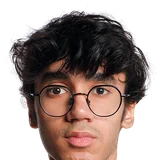
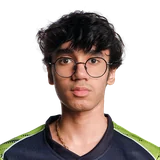
Predict results: square headshots instead of circle crops
Claude-Session: https://claude.ai/code/session_01BzJY31iHji2UxXymYXT3SW

diff --git a/core/crowdpage.py b/core/crowdpage.py
@@ -50,7 +50,7 @@ PAGE = r"""<!doctype html><html lang="en"><head><meta charset="utf-8">
 body{background:radial-gradient(800px 380px at 80% -15%,rgba(124,92,255,.14),transparent 60%),var(--bg);min-height:100vh}
 body:before{content:"";position:fixed;inset:0;pointer-events:none;z-index:50;background:repeating-linear-gradient(0deg,rgba(255,255,255,.012) 0 1px,transparent 1px 3px)}
 a{color:var(--cyan);text-decoration:none}.mono{font-family:"Share Tech Mono",monospace}
-.bar{position:sticky;top:0;z-index:20;background:rgba(11,11,18,.9);backdrop-filter:blur(10px);border-bottom:1px solid var(--line)}
+.bar{position:sticky;top:0;z-index:20;background:rgba(11,11,18,.9);backdrop-filter:blur(10px)}
 .bar .in{max-width:1180px;margin:0 auto;padding:10px 16px;display:flex;align-items:center;gap:10px}
 .brand{display:block;font:12px "Share Tech Mono",monospace;color:var(--lime);letter-spacing:.04em}
 h1{margin:2px 0 0;font-size:19px;text-transform:uppercase;letter-spacing:.02em;line-height:1.1}h1 span{color:var(--muted);font-weight:600}
@@ -96,14 +96,15 @@ h1{margin:2px 0 0;font-size:19px;text-transform:uppercase;letter-spacing:.02em;l
 .sleg{display:grid;grid-template-columns:repeat(2,1fr);gap:6px 14px;margin-top:12px}.sleg div{display:flex;align-items:center;gap:8px;font-size:14px;font-weight:600}
 .sleg i{width:10px;height:10px;flex:none}.sleg span:not(.av){margin-left:auto;font:14px "Share Tech Mono",monospace}
 /* treemap */
-.tm{position:relative;height:260px}.tm div{position:absolute;border:2px solid var(--card);padding:8px;overflow:hidden;display:flex;flex-direction:column;justify-content:flex-end}
+.tm{position:relative;height:260px}@media(max-width:640px){.tm{height:330px}}@media(min-width:641px){.tm .tight{padding-right:30px}.tm .tight b{font-size:12px}}.tm div{position:absolute;border:2px solid var(--card);padding:8px;overflow:hidden;display:flex;flex-direction:column;justify-content:flex-end}
 .tm b{font-size:14px;line-height:1.1;white-space:nowrap;overflow:hidden;text-overflow:ellipsis}.tm span{font:20px "Share Tech Mono",monospace}
 /* gauge */
 .gg{display:flex;gap:16px;align-items:center;flex-wrap:wrap}.gg svg{width:220px;flex:none}
 .rk{flex:1;min-width:170px}.rk div{display:flex;align-items:center;gap:10px;padding:5px 0;border-bottom:1px dashed var(--line);font-weight:600}.rk div:last-child{border:0}
 .rk em{font:normal 13px "Share Tech Mono",monospace;color:var(--muted);width:22px;display:inline-block;flex:none}.rk span:not(.av){margin-left:auto;font:14px "Share Tech Mono",monospace}
 /* players */
-.av{width:24px;height:24px;border-radius:50%;object-fit:cover;object-position:top;background:var(--card2);border:1px solid var(--line);flex:none;display:inline-grid;place-items:center;font:700 9px "Chakra Petch",sans-serif;color:var(--muted)}
+.av{width:38px;height:38px;border-radius:4px;object-fit:cover;background:linear-gradient(180deg,#22222f,#15151e);flex:none;display:inline-grid;place-items:center;font:700 11px "Chakra Petch",sans-serif;color:var(--muted)}
+span.av{border:1px solid var(--line)}
 .c.ph{overflow:hidden}.cut{position:absolute;right:-6px;bottom:0;height:88%;max-height:330px;width:auto;pointer-events:none;
  -webkit-mask-image:linear-gradient(to top,transparent 0,#000 34%);mask-image:linear-gradient(to top,transparent 0,#000 34%);filter:saturate(.95) contrast(1.03)}
 .c.ph>*:not(.cut){position:relative;z-index:1}
@@ -114,13 +115,13 @@ h1{margin:2px 0 0;font-size:19px;text-transform:uppercase;letter-spacing:.02em;l
 .elimP .cut{position:relative;right:auto;bottom:auto;height:170px;margin-right:-8px}
 .tm .tc{position:absolute;right:0;bottom:0;height:92%;width:auto;-webkit-mask-image:linear-gradient(to top,transparent 0,#000 30%);mask-image:linear-gradient(to top,transparent 0,#000 30%);pointer-events:none}
 .tav{width:30px;height:30px;border-color:rgba(0,0,0,.25)}
-.pills span{display:inline-flex;align-items:center;gap:6px;padding:3px 10px 3px 3px}
+.pills span{display:inline-flex;gap:8px;padding:4px 10px 4px 4px}.pills span em{align-self:center}.pills span{align-items:center}.pills .av{width:30px;height:30px}
 /* leader strip on player cards */
 .lead{position:relative;height:150px;margin:-4px 0 12px;border-bottom:1px solid var(--line);overflow:hidden}
 .lead .lc{position:absolute;right:-10px;bottom:0;height:150px;max-height:none;-webkit-mask-image:linear-gradient(to top,transparent 0,#000 30%);mask-image:linear-gradient(to top,transparent 0,#000 30%)}
 .lead .ln{position:relative;font:700 52px/1 "Chakra Petch",sans-serif;margin-top:18px;text-shadow:0 0 20px rgba(182,242,58,.3)}
 .lead .lw{position:relative;font-size:20px;font-weight:700;text-transform:uppercase;margin-top:4px}.lead small{position:relative;font:11px "Share Tech Mono",monospace;color:var(--muted)}
-.tm div{gap:2px}.tm .tav{position:absolute;top:6px;right:6px;width:28px;height:28px;border-color:rgba(0,0,0,.25)}
+.tm div{gap:2px}.tm .tav{position:absolute;top:6px;right:6px;aspect-ratio:1;border-radius:4px;object-fit:cover;background:rgba(0,0,0,.28);pointer-events:none}.tm b,.tm span{position:relative;z-index:1;text-shadow:0 1px 6px rgba(0,0,0,.25)}
 /* curve */
 .cv svg{width:100%;height:auto;display:block}
 .foot{margin-top:22px;font:12px "Share Tech Mono",monospace;color:var(--muted);display:flex;gap:12px;flex-wrap:wrap}
@@ -170,7 +171,8 @@ function squarify(items,x,y,w,h){const out=[],tot=items.reduce((a,r)=>a+r.pct,0)
   else{const ch=s/w;let xx=x;row.forEach(r=>{const cw=r.a/ch;out.push({...r,x:xx,y,w:cw,h:ch});xx+=cw});y+=ch;h-=ch}rest=rest.slice(k)}return out}
 function tree(q){const W=400,H=260,cells=squarify(q.rows.map((r,i)=>({...r,c:r.other?OTH:COL[i]})),0,0,W,H);
  return card(q,'s4 ph',lead(q)+`<div class="tm">${cells.map(r=>{const dark=['#b6f23a','#f5c451','#3fd6a4','#4cc9f0'].includes(r.c),narrow=r.w<118,u=!r.other&&ph(r.label);
-  return `<div class="${ok(q,r.label)}" style="left:${r.x/W*100}%;top:${r.y/H*100}%;width:${r.w/W*100}%;height:${r.h/H*100}%;background:${r.c};color:${dark?'#0b0b12':'#eeeef5'}" title="${esc(r.label)} ${pc(r.pct)}">${u?`<img class="av tav" src="${u}" alt="${esc(r.label)}" style="${narrow||r.h<70?'width:20px;height:20px;top:4px;right:4px':''}">`:''}<b style="${narrow?'font-size:12px':''}">${esc(r.label)}</b><span style="${narrow?'font-size:16px':''}">${pc(r.pct)}</span></div>`}).join('')}</div>`)}
+  const tight=u&&r.h<80,sz=tight?24:Math.round(Math.max(30,Math.min(r.h*.42,r.w*.42,76)));
+  return `<div class="${ok(q,r.label)} ${tight?'tight':''}" style="left:${r.x/W*100}%;top:${r.y/H*100}%;width:${r.w/W*100}%;height:${r.h/H*100}%;background:${r.c};color:${dark?'#0b0b12':'#eeeef5'};" title="${esc(r.label)} ${pc(r.pct)}">${u?`<img class="tav" src="${u}" alt="${esc(r.label)}" style="width:${sz}px;height:${sz}px">`:''}<b style="${narrow?'font-size:12px':''}">${esc(r.label)}</b><span style="${narrow?'font-size:16px':''}">${pc(r.pct)}</span></div>`}).join('')}</div>`)}
 // 7. eliminator: gauge + ranking
 function gauge(q){const L=q.rows[0],a1=Math.PI+Math.PI*L.pct/100;
  return card(q,'s4 elimP',`<div class="gtop"><svg viewBox="0 0 220 130" style="width:62%;max-width:230px"><path d="${arc(110,115,90,Math.PI,2*Math.PI-.0001)}" stroke="#262636" stroke-width="18" fill="none"/><path d="${arc(110,115,90,Math.PI,a1)}" stroke="#ff4d5e" stroke-width="18" fill="none" class="gp" style="filter:drop-shadow(0 0 6px rgba(255,77,94,.6))"/><text x="110" y="100" text-anchor="middle" fill="#eeeef5" font-family="Chakra Petch,sans-serif" font-weight="700" font-size="34">${pc(L.pct)}</text><text x="110" y="122" text-anchor="middle" fill="#8d8ca3" font-family="Share Tech Mono,monospace" font-size="12">${esc(L.label.toUpperCase())}</text></svg>${cut(L.label)}</div>
